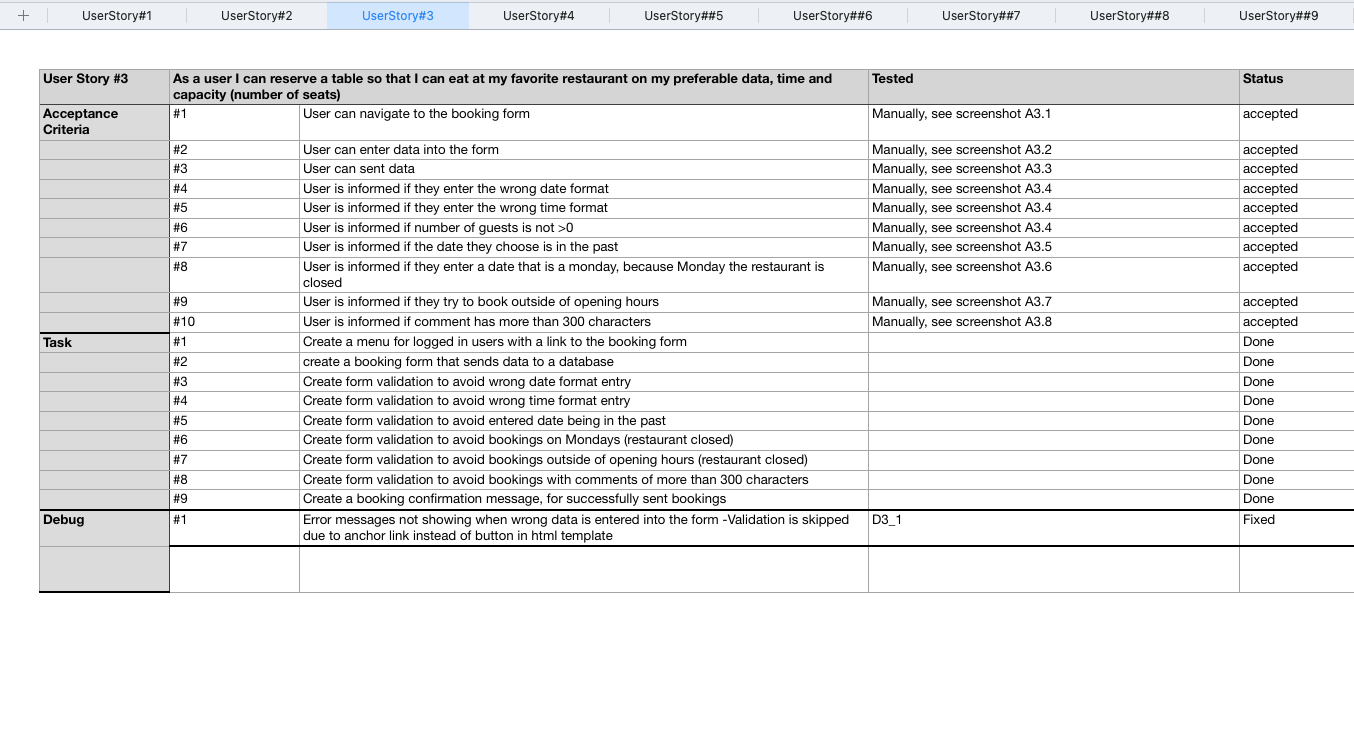
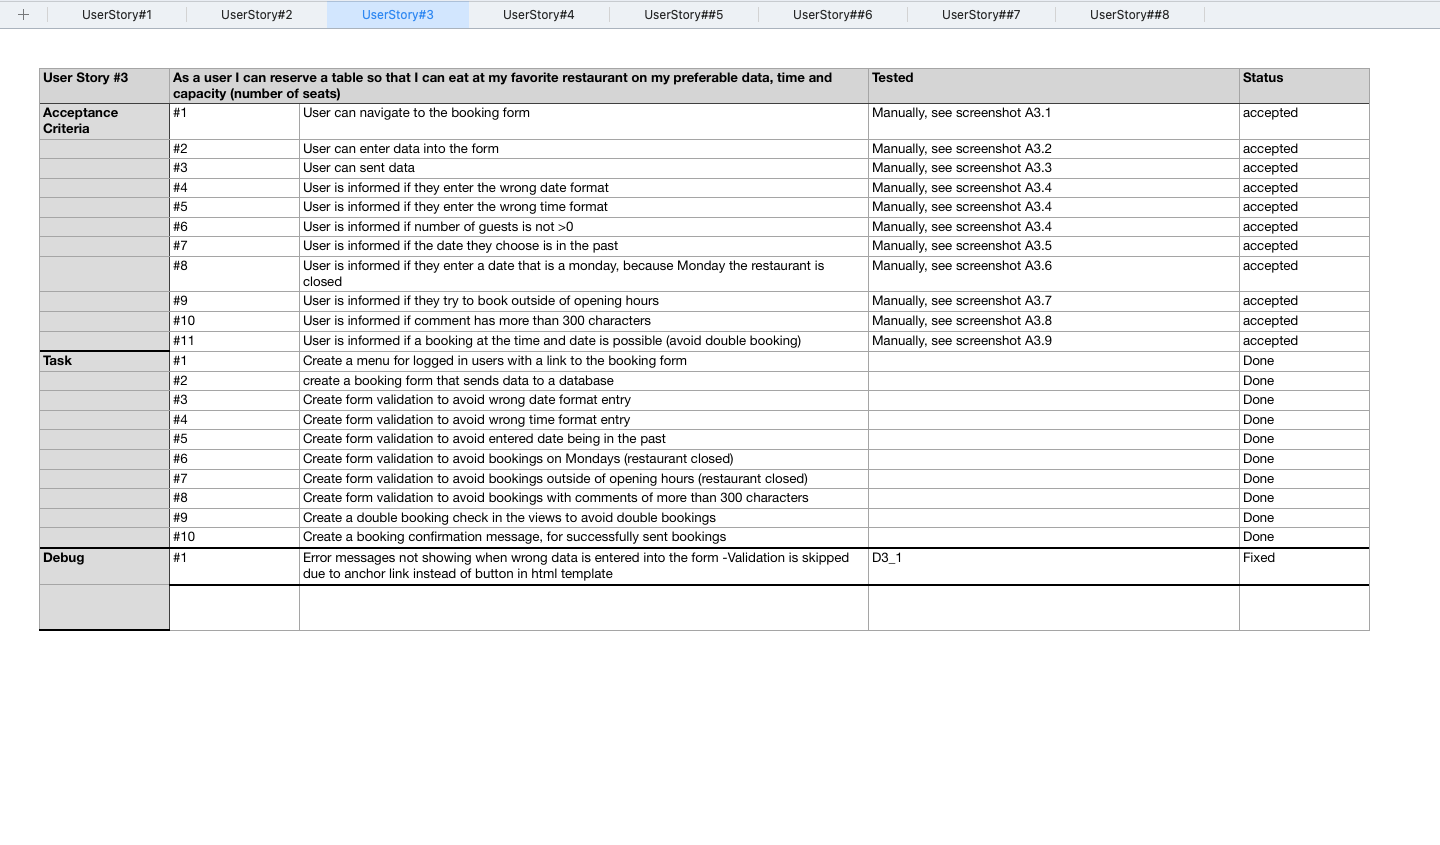
Add user story 5 and acceptance criteria to testing..m.md, adapt manage booking date format and add double booking check

Changed region(s): [[0.0, 0.0, 1.0, 0.791]]

diff --git a/tablebooking/views.py b/tablebooking/views.py
@@ -75,17 +75,32 @@ class ReservationUpdate(generic.UpdateView):
     def get_form(self, form_class=None):
         form = super().get_form(form_class)
 
+        # Parse the date from the object and set it in the desired format
+        formatted_date = self.object.date.strftime('%d/%m/%Y')
+
         # Set the initial data for the form fields
         initial_data = {
-            'date': self.object.date,
+            'date': formatted_date,
             'time': self.object.time,
             'number_of_guests': self.object.number_of_guests,
             'number_of_child_seats' : self.object.number_of_child_seats,
             'comment' : self.object.comment,
         }
-
         form.initial = initial_data
         return form
+    
+    def form_valid(self, form):
+        data = form.cleaned_data
+        form.instance.user = self.request.user
+        tables = Table.objects.filter(number_of_seats__gte=form.instance.number_of_guests)
+        overlapping_reservations = Reservation.objects.filter(table__in=tables, date=data.get("date"), time=data.get("time"))  # Exclude the current reservation if it's being updated
+        if overlapping_reservations.exists():
+            form.add_error('date', "This table is already booked for the selected date and time.")
+            return super().form_invalid(form)
+
+        if tables.exists():
+            form.instance.table = tables.first()
+        return super().form_valid(form)
 
 @method_decorator(login_required, name='dispatch')
 class ReservationDelete(DeleteView):

diff --git a/Testing.md b/Testing.md
@@ -100,7 +100,7 @@ Fix for Bug 4: Javascript needed to be properly imported and code had typos.
 
 The overview table for user story two sums up the tested acceptance criteria, the performed tasks and the bug fixes that took place.
 
-![User Story 2](/static/images/readme/Testing/2_UserStory/UserStory2WithAcceptanceCriteria.png "User Story 1, with Acceptance Criteria, Tasks and Debug Fixes")
+![User Story 2](/static/images/readme/Testing/2_UserStory/UserStory2WithAcceptanceCriteria.png "User Story 2, with Acceptance Criteria, Tasks and Debug Fixes")
 
 Acceptance Criteria 2_1: The user is getting a confirmation if the booking at the desired date and time was possible.
 
@@ -182,7 +182,7 @@ Fix for Bug 1: This time the issue was due to a change I made while testing my c
 The overview table for user story four sums up the tested acceptance criteria, the performed tasks and the bug fixes that took place.
 
 
-![User Story 4](/static/images/readme/4_UserStory/UserStory4WithAcceptanceCriteria.png "User Story 1, with Acceptance Criteria, Tasks and Debug Fixes")
+![User Story 4](/static/images/readme/4_UserStory/UserStory4WithAcceptanceCriteria.png "User Story 4, with Acceptance Criteria, Tasks and Debug Fixes")
 
 Acceptance Criteria 4_1:
 User can enter the number of seats he or she wishes to occupy with the booking.
@@ -199,9 +199,77 @@ The following bug occured while working on the tasks for user story 4:
 
 Bug 1: Error messages not showing when wrong data is entered into the form.
 
-![User Story 3, Bug 1](/static/images/readme/Testing/3_UserStory/D3_1.png "User Story 3, Bug 1")
+![User Story 4, Bug 1](/static/images/readme/Testing/3_UserStory/D3_1.png "User Story 4, Bug 1")
 
 Fix for Bug 1: This bug occured in 2 iternations. The first time the issue was due to the error messages not being integrated in the html template. And the second time the html template of the create booking were altered wrongly (nested button within link tag) --> see Bug 1 in User Story 2 and 3.
+
+### User Story 5
+
+**As a registered user I can change or cancel my booking online saving me the hazzle of calling or writing emails.**
+
+The overview table for user story five sums up the tested acceptance criteria, the performed tasks and the bug fixes that took place.
+
+
+![User Story 5](/static/images/readme/4_UserStory/UserStory5WithAcceptanceCriteria.png "User Story 5, with Acceptance Criteria, Tasks and Debug Fixes")
+
+Acceptance Criteria 5_1:
+User can navigate to the existing bookings.
+
+![AC 5_1](/static/images/readme/Testing/5_UserStory/A5.1.PNG "User Story 5, AC 5_1")
+
+Acceptance Criteria 5_2:
+User is informed if there are no current bookings available.
+
+![AC 5_2](/static/images/readme/Testing/5_UserStory/A5.2.PNG "User Story 5, AC 5_2")
+
+Acceptance Criteria 5_3:
+User is shown a list of current bookings, if they exist.
+
+![AC 5_3](/static/images/readme/Testing/5_UserStory/A5.1.PNG "User Story 5, AC 5_3")
+
+Acceptance Criteria 5_4:
+User can navigate between the bookings.
+
+Previous:
+![AC 5_4_1](/static/images/readme/Testing/5_UserStory/A5.4_1.PNG "User Story 5, AC 5_4_1")
+
+Next:
+![AC 5_4_2](/static/images/readme/Testing/5_UserStory/A5.4_2.PNG "User Story 5, AC 5_4_2")
+
+Acceptance Criteria 5_5:
+User can navigate to the update booking form.
+
+![AC 5_5](/static/images/readme/Testing/5_UserStory/A5.5.PNG "User Story 5, AC 5_5")
+
+Acceptance Criteria 5_6:
+User is informed if the update is not possible (error messages according to form validation - see user story 3).
+
+![AC 5_6](/static/images/readme/Testing/5_UserStory/A5.6.PNG "User Story 5, AC 5_6")
+
+Acceptance Criteria 5_7:
+User is informed if the booking update at the selected time and date is not possible anymore (avoid double booking).
+
+![AC 5_7](/static/images/readme/Testing/5_UserStory/A5.7.PNG "User Story 5, AC 5_7")
+
+Acceptance Criteria 5_8:
+User is informed that update was successful.
+
+![AC 5_8](/static/images/readme/Testing/5_UserStory/A5.8.PNG "User Story 5, AC 5_8")
+
+Acceptance Criteria 5_9:
+User can navigate to delete a booking on mouse-click.
+
+![AC 5_9](/static/images/readme/Testing/5_UserStory/A5.1.PNG "User Story 5, AC 5_9")
+
+Acceptance Criteria 5_10:
+User is asked to confirm deletion.
+
+![AC 5_10](/static/images/readme/Testing/5_UserStory/A5.10.PNG "User Story 5, AC 5_10")
+
+Acceptance Criteria 5_11:
+User is informed about successful deletion.
+
+![AC 5_11](/static/images/readme/Testing/5_UserStory/A5.11.PNG "User Story 5, AC 5_11")
 
 ### Test Cases
 To test the **login and registration** functionalities, the following test cases were tested:
